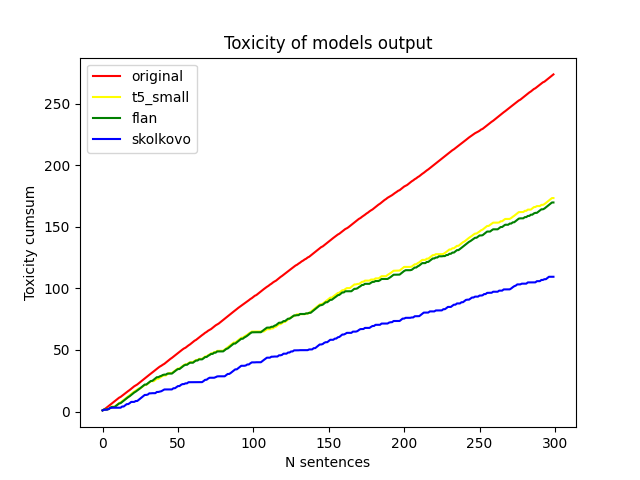
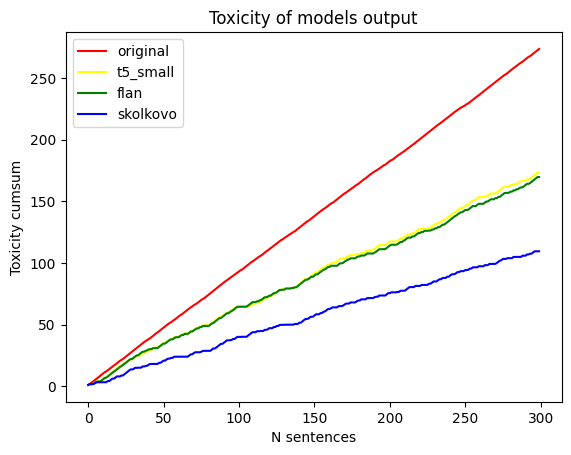
Add files via upload

diff --git a/reports/Solution Building.md b/reports/Solution Building.md
@@ -1,0 +1,89 @@
+# Solution Building
+
+# Introduction
+
+After looking through the article provided in the task description and the 5th lab tnotebook that explained seq2seq model training, I decided to use a translational approach to this task. We can suppose that there are 2 languages: toxic and non-toxic and we would like to translate messages from one to another without loosing the initial meaning of the message.
+
+# Dataset exploration
+
+For this purposes I downloaded the filtered parmnt dataset provided to us and analysed it. 
+
+After looking through several sample and writing the mean values of reference and translation I found out the dataset is mixed and the translation is not always less toxic than reference.
+
+![avg_tox.png](figures/avg_tox.png)
+
+![swap_tox.png](figures/swap_tox.png)
+
+Because of that I decided to swap all sentences in such way that reference is always more toxic than translation, so later it’s easier for me to process it.  Since 500K+ pairs of sentences it too big for me to store(even if they are mostly ~10 words long) and use later in trainings and I needed to crop the data.
+
+![length.png](figures/length.png)
+
+ So I sorted it firstly by translation toxicity and after that by similarity score. This result in a dataset where the most important metric is the text similarity, but in case of the same value less toxic translation is preferable. 
+
+After that I simply take first 50k samples and save it as .tsv file for using later.
+
+Here is the word cloud for reference texts (the most occuring words)
+
+![ref_word_cloud.png](figures/ref_word_cloud.png)
+
+# T5 model family
+
+T5 and BART models are the best model that I could get for my research experiments. There are several reasons for that.
+
+- I have a limited resources, cannot actually use my own machine, so have to do everything via cloud services, but they are restricted by time and memory.
+- T5 is an encoder-decoder model and converts all NLP problems into a text-to-text format. It is trained using teacher forcing. This means that for training, we always need an input sequence and a corresponding target sequence. So by definition it’s the most suitable model for the given data and problem description.
+- BART is a transformer encoder-decoder (seq2seq) model. BART is particularly effective when fine-tuned for text generation (e.g. summarization, translation)
+- T5 and BART is explored by large companies like google,facebook and Skolkovo, they have a variety of different versions, that I can compare. Moreover, T5 is the only model on hugging face that I could find in a small size
+- They have a clear description on how to use it. Moreover, I was provided by a notebook example on how to fine-tune the T5 model
+
+### Other models
+
+This doesn’t mean that I didn’t try other model. However During my research I tried to use BERT, BART (frome facebook), ALBERT, GPT models in order to fine-tune them on the cropped dataset. However during the process I encountered a lot of problems with tokenization and data prerocessing, memory leaks. Some of them have ways to solve - like quantization (storing the weights in different data type in order to decrease its size) or usage of other cloud services, but I decided that this approach is not suitable with my abilities. Therefore I analysed work of two t5 models and BART model from skolkovo.
+
+# T5-small
+
+A classic basic example of t5 architecture. 
+
+More information about this model you can find on [hugging face documentation](https://huggingface.co/docs/transformers/model_doc/t5) by looking at the associated papers. 
+
+The training part is simple - I take the dataset, load the model and tokenizer from a checkpoint, process the dataset, choose arguments for training, run the autotrainer. Then I simply use [skolkovo toxicity classifier](https://huggingface.co/s-nlp/roberta_toxicity_classifier) to analyse the result. Initially I didn’t save a special csv file for comparing results with other models, that is why there are 2 .ipynb notebooks for the same model
+
+# Google FLAN
+
+This a T5 model tuned by the google, that they declare as more suitable for NLP tasks than a common one.
+
+There is no much difference with training compared to T5 small. The only thing I want to note is that FLAN also has different model size, so I used the small one
+
+# Skolkovo model
+
+This model is really a big winner. First of all, unlike the other model it was fine-tune especially for the text detoxification problem, so I only could fine-tune to something more specific (you’ll se in the result section). Secondly, it was working even for it’s not hat big (compared to other NLP models) size, I didn’t had to compose a special structure for training it. 
+
+# Discussions.
+
+So, as I said in the introduction. When I prepared my dataset I sorted it by similarity, so the text of reference and translation are close enough. Here’s the definition of Bleu metric scores from the internet sources.
+
+![bleu_metric.png](figures/bleu_metric.png)
+
+And here are the training mean values for different models
+
+skolkovo:
+
+![bleu_skl.png](figures/bleu_skl.png)
+
+T5-small
+
+![bleu_t5.png](figures/bleu_t5.png)
+
+So this models by definition after fine-tuning started to give me a high quality translation, which is no surprise since I focused my dataset more on the similarity.
+
+After training all models I decided to translate first 300 sentences from the cropped dataset to analyse how well they performed on the initial problem - detoxifying it. Here are the results
+
+![toxicity.png](figures/toxicity.png)
+
+From this image you can see, that all models can decrease the toxicity of texts ( their cumsum of toxicity score given by [roberta model from skolkovo](https://huggingface.co/s-nlp/roberta_toxicity_classifier) is lower than from the original sentences) . But the skolkovo model ( that was actually made for detoxification) perofrms better.
+
+However, when we are looking at the bleu score we can see, that th t5 model give more closer to the original text results (their bleu score is bigger) than skolkovo. This is due to the fact that the skolkovo model is too powerful and cut everything toxic, while my dataset is focused more on preserving the information. 
+
+![bleu.png](figures/bleu.png)
+
+See the final result in my final [solution report](https://www.notion.so/Detoxification-Task-f978e900e9784df78e1baf34a3d94af8?pvs=21).
